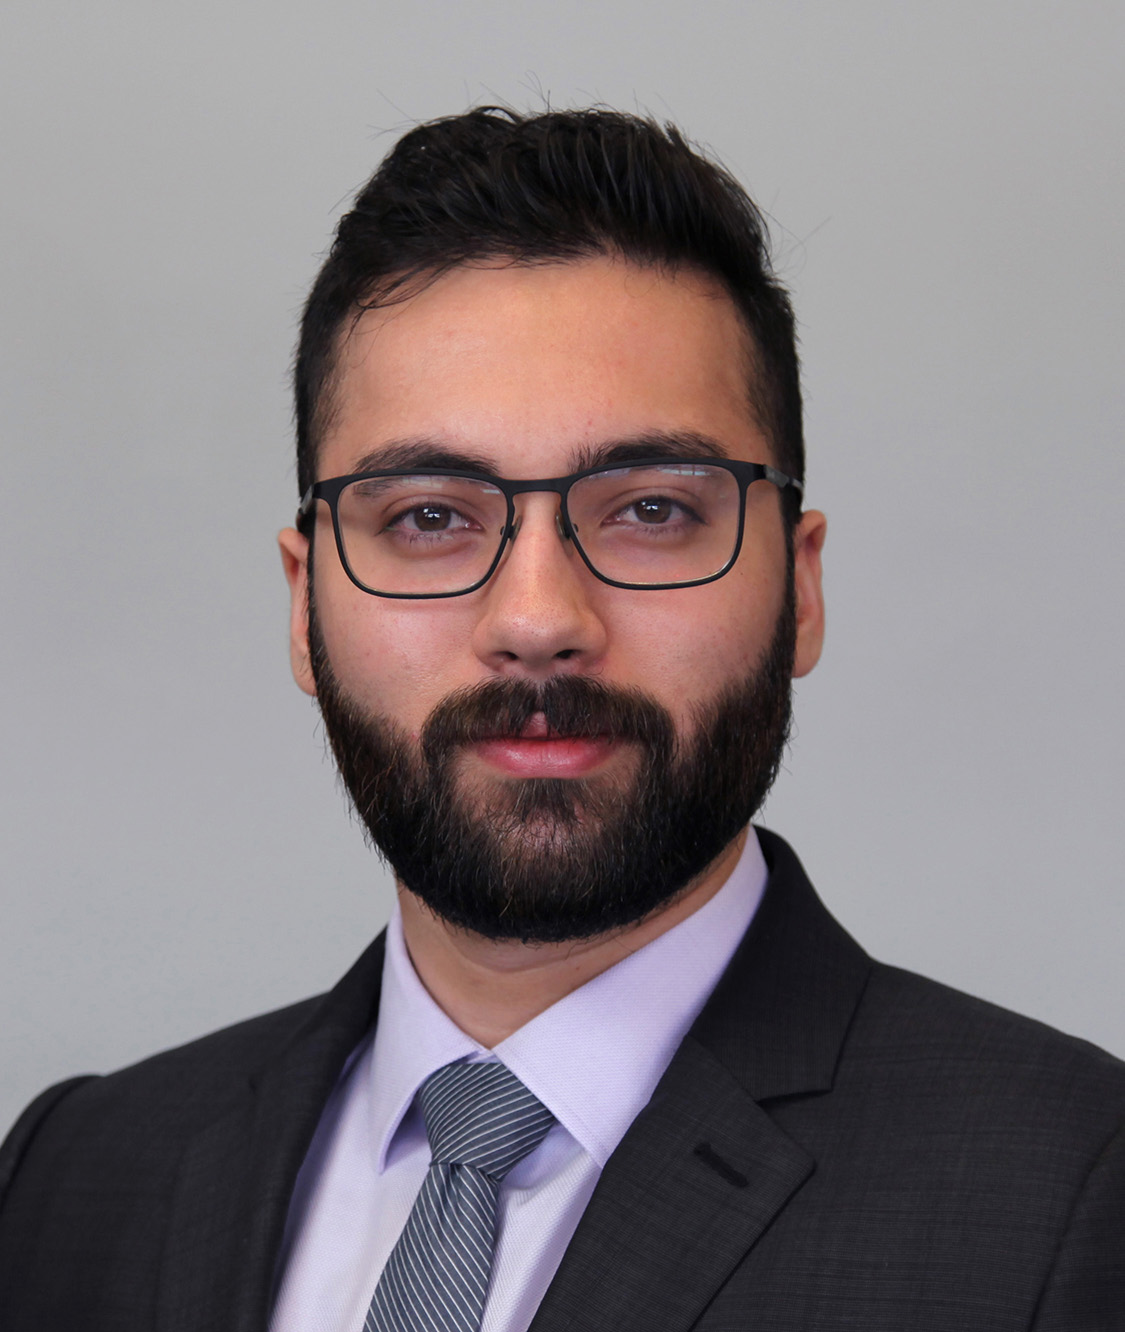
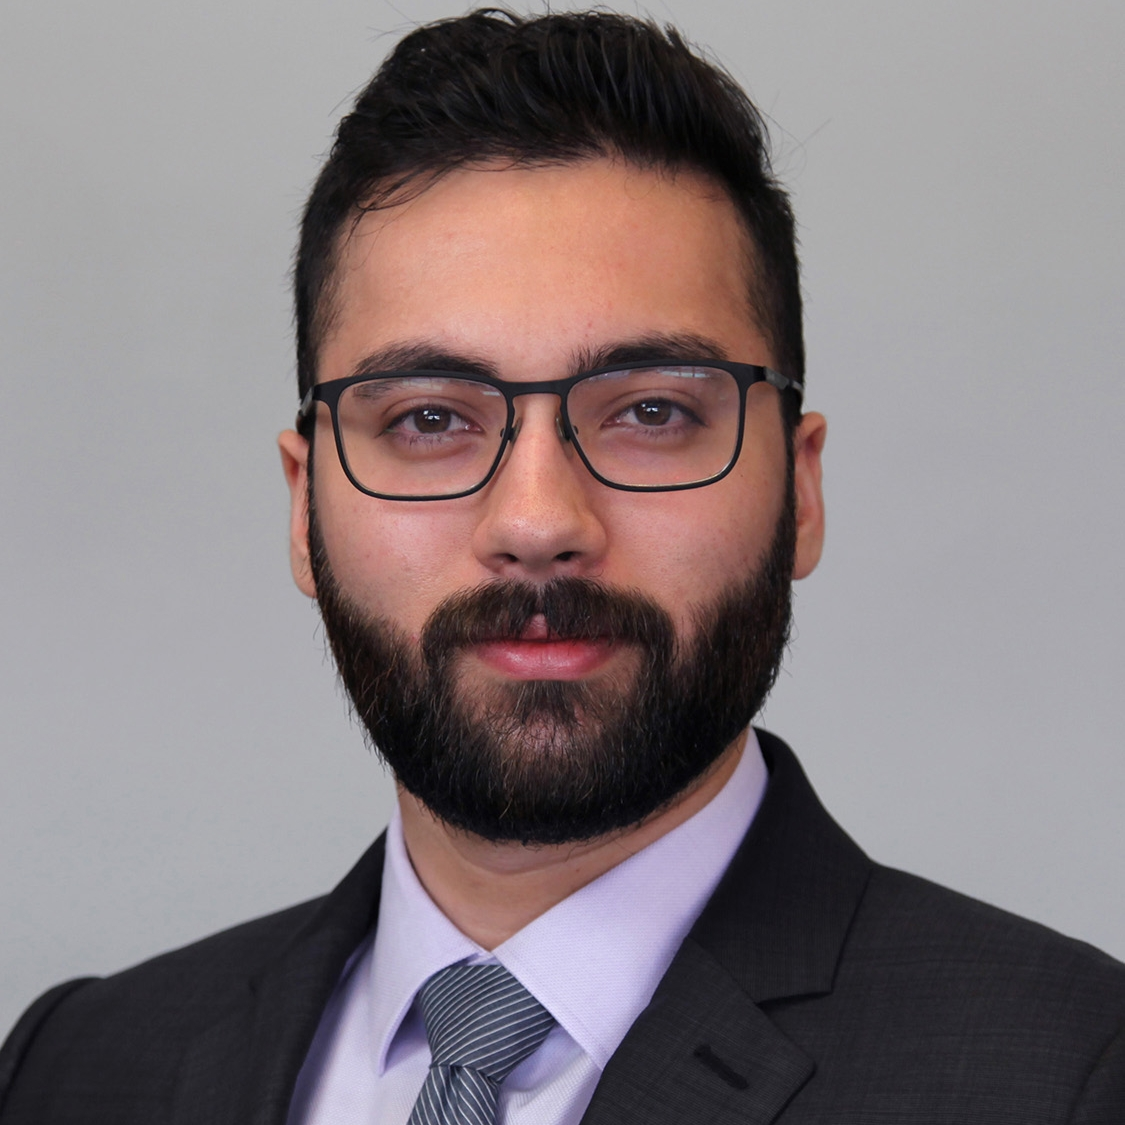
More pictures

Changed region(s): [[0.0, 0.4667, 1.0, 1.0], [0.2489, 0.0, 0.7467, 0.4667], [0.6844, 0.8711, 0.7156, 0.9022]]

diff --git a/pelicanconf.py b/pelicanconf.py
@@ -26,13 +26,15 @@ SOCIAL = (('linkedin', 'https://www.linkedin.com/in/roshan-doddanavar'),
 DEFAULT_PAGINATION = False
 
 # Uncomment following line if you want document-relative URLs when developing
-#RELATIVE_URLS = True
+RELATIVE_URLS = True
 
 #------------------------------------------------------------------------------#
 
 # USER SETTINGS
 
 USE_FOLDER_AS_CATEGORY = True
+
+STATIC_PATHS = ['images']
 
 #------------------------------------------------------------------------------#
 
@@ -42,7 +44,7 @@ THEME = 'MinimalXY'
 
 # Author
 AUTHOR_INTRO = 'Hello, I\'m Roshan - a professional Aerospace Engineer, and an avid hobbyist & tinkerer.'
-AUTHOR_AVATAR = 'content/images/headshot.jpg'
+AUTHOR_AVATAR = 'images/headshot.jpg' # Must be relative to content/ directory
 
 # Theme customizations
 

diff --git a/content/projects/electronic_workbench_panel.md b/content/projects/electronic_workbench_panel.md
@@ -2,12 +2,43 @@ Title: Electronics Workbench Panel
 Date: 2023-05-23
 Category: Projects
 
-> In the middle of COVID (2020), my needs for an electronics workbench became more concrete. I was budget and space constrained, but had plently of freetiem and energy during lockdown. This was my attempt to address the need with a flexible, DIY solution. 
+> In the middle of COVID (2020), my need for an electronics workbench became more concrete. I was budget and space constrained, but had plenty of freetime and energy during lockdown. This was my attempt to address the need with a flexible, DIY solution. 
 
 # Why DIY?
 
+As someone still operating on the hobbyist level, I needed a a couple of basic instruments:
+
+- Digital multimeter
+- DC power supply
+- Oscilloscope
+
+A laboratory-grade set would be inappropriate for my setup, from both a cost and space perspective.
+
+The multimeter was easy—I had an underused *Fluke 115* from Amazon, that already seemed like overkill for Arduino projects:
+
+![Fluke 115](images/fluke_115.jpg)
+
+Most oscilloscopes seemed out-of-reach. On Amazon, there are several entry-level models that. Another option 
+
 # Gathering Components
+
+![DCDC](images/uctronics_dcdc_converter.jpg)
+
+![Meanwell](images/meanwell_edr_120_24.jpg)
+
 
 # Design & Construction
 
+| **Components** | **Unit Cost** | **Quantity** | **Subtotal** |
+|:--------------:|:-------------:|--------------|--------------|
+|                |               |              | $            |
+|                |               |              | $            |
+|                |               |              | $            |
+|                |               | **Total**    | $            |
+
 # Usage
+
+The two-channel DC power supply immediately paid off. I was able to work on projects with mixed power needs, such as interfacing a 5 VDC Arduino with a 3.3V sensor breakout board. 
+
+A simple convention that became convenient when working on the breadboards:
+**RED** = 5 VDC, **YELLOW** = 3.3 VDC, and **BLACK** = GND.
